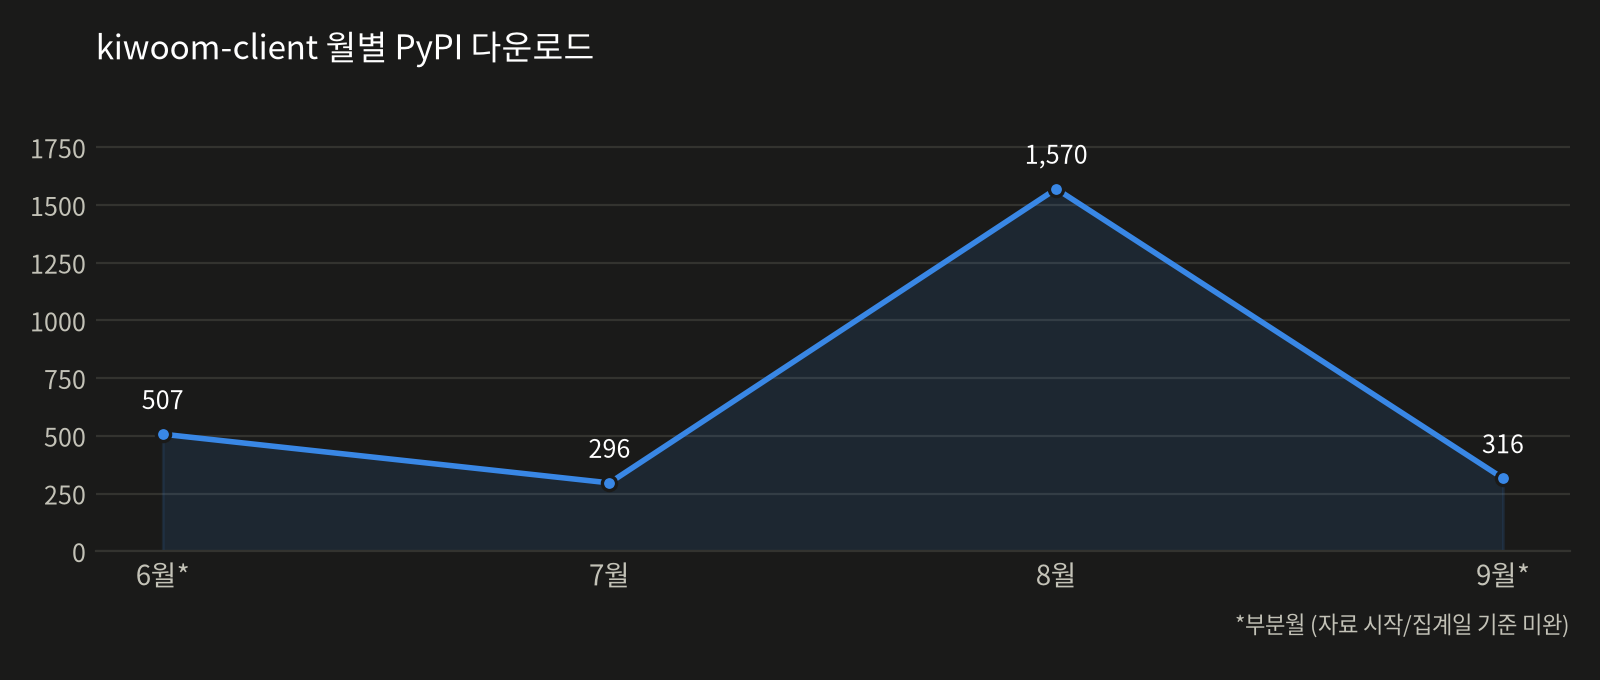
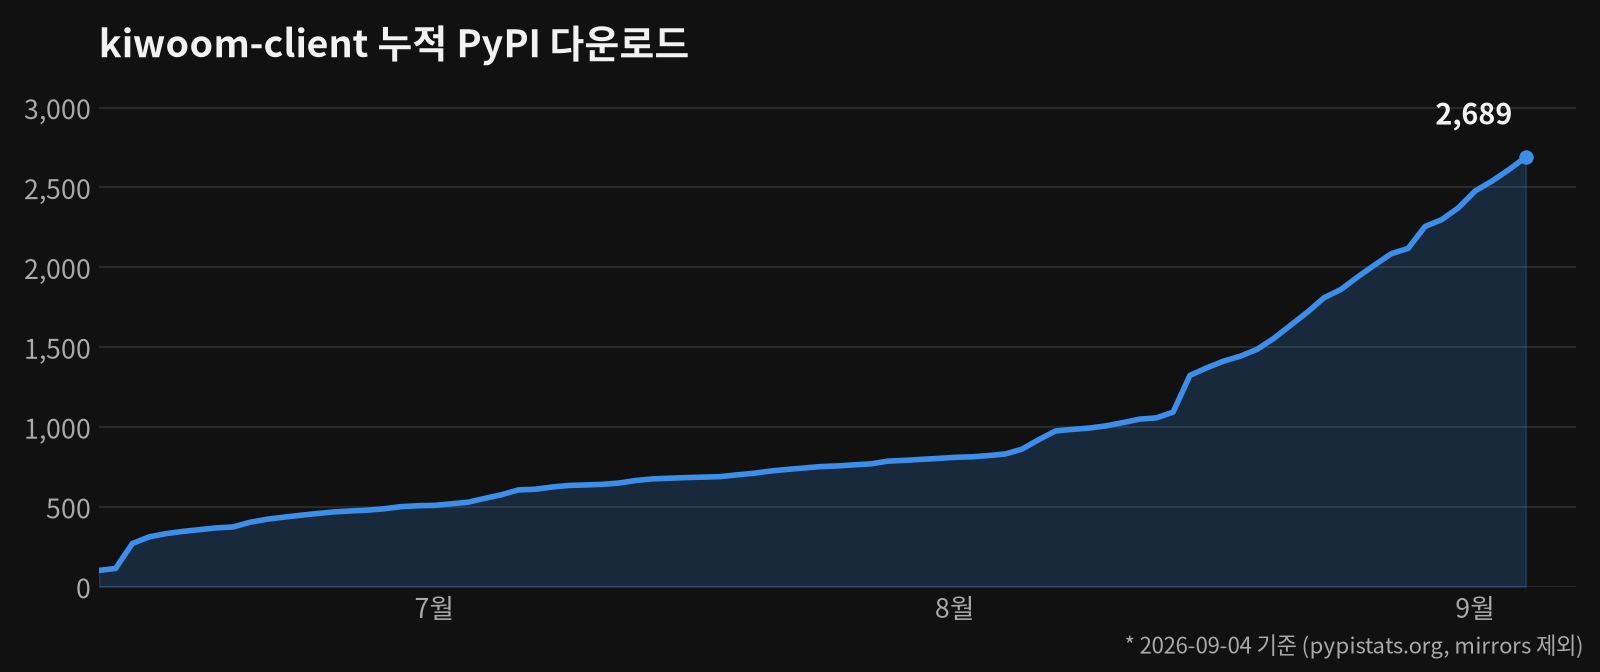
docs(readme): PyPI 다운로드 그래프를 월별 추이에서 누적 그래프로 교체
Claude-Session: https://claude.ai/code/session_01GQuZyddvRBdCErVszGSPg1

diff --git a/README_EN.md b/README_EN.md
@@ -12,7 +12,7 @@
 
 <picture>
   <source media="(prefers-color-scheme: dark)" srcset="docs/images/pypi_downloads_dark.png">
-  <img alt="kiwoom-client monthly PyPI downloads" src="docs/images/pypi_downloads_light.png" width="640">
+  <img alt="kiwoom-client cumulative PyPI downloads" src="docs/images/pypi_downloads_light.png" width="640">
 </picture>
 
 > A modern Python wrapper for the **Kiwoom Securities REST API** — a cross-platform replacement for the legacy

diff --git a/README.md b/README.md
@@ -12,7 +12,7 @@
 
 <picture>
   <source media="(prefers-color-scheme: dark)" srcset="docs/images/pypi_downloads_dark.png">
-  <img alt="kiwoom-client 월별 PyPI 다운로드 추이" src="docs/images/pypi_downloads_light.png" width="640">
+  <img alt="kiwoom-client 누적 PyPI 다운로드 추이" src="docs/images/pypi_downloads_light.png" width="640">
 </picture>
 
 > **키움증권 OpenAPI를 대체하는 Python REST API 래퍼.**
